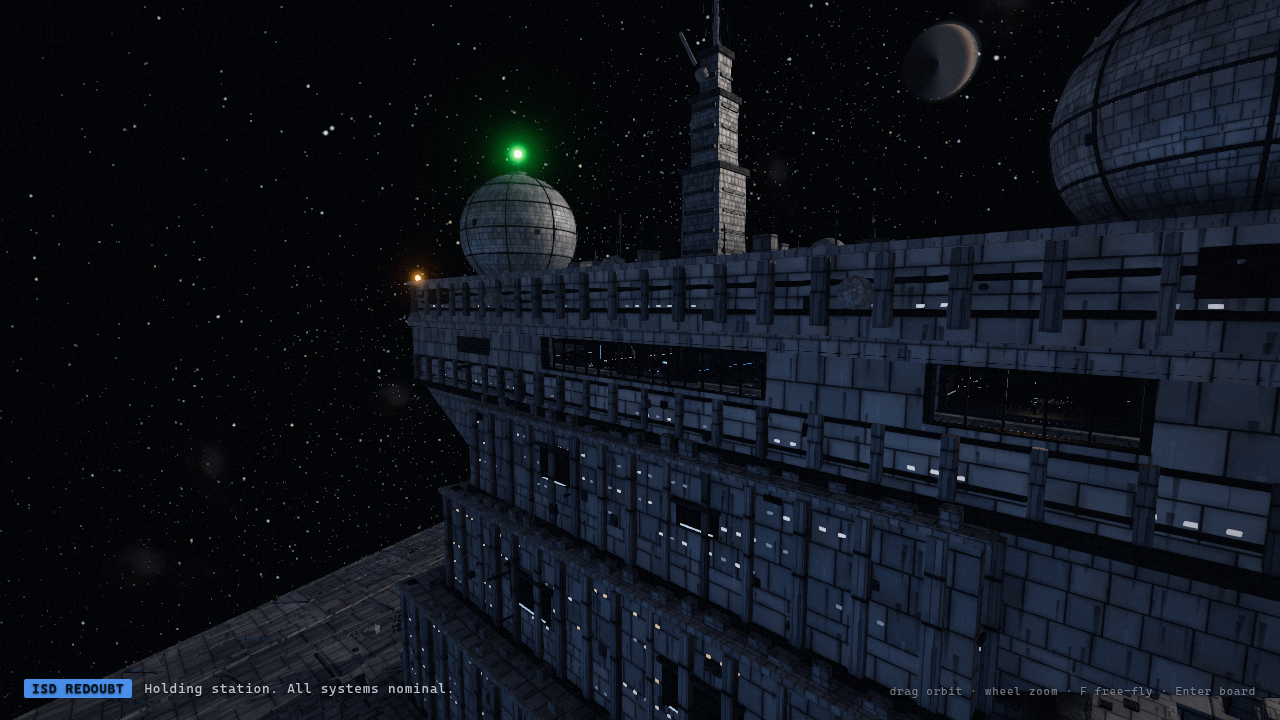
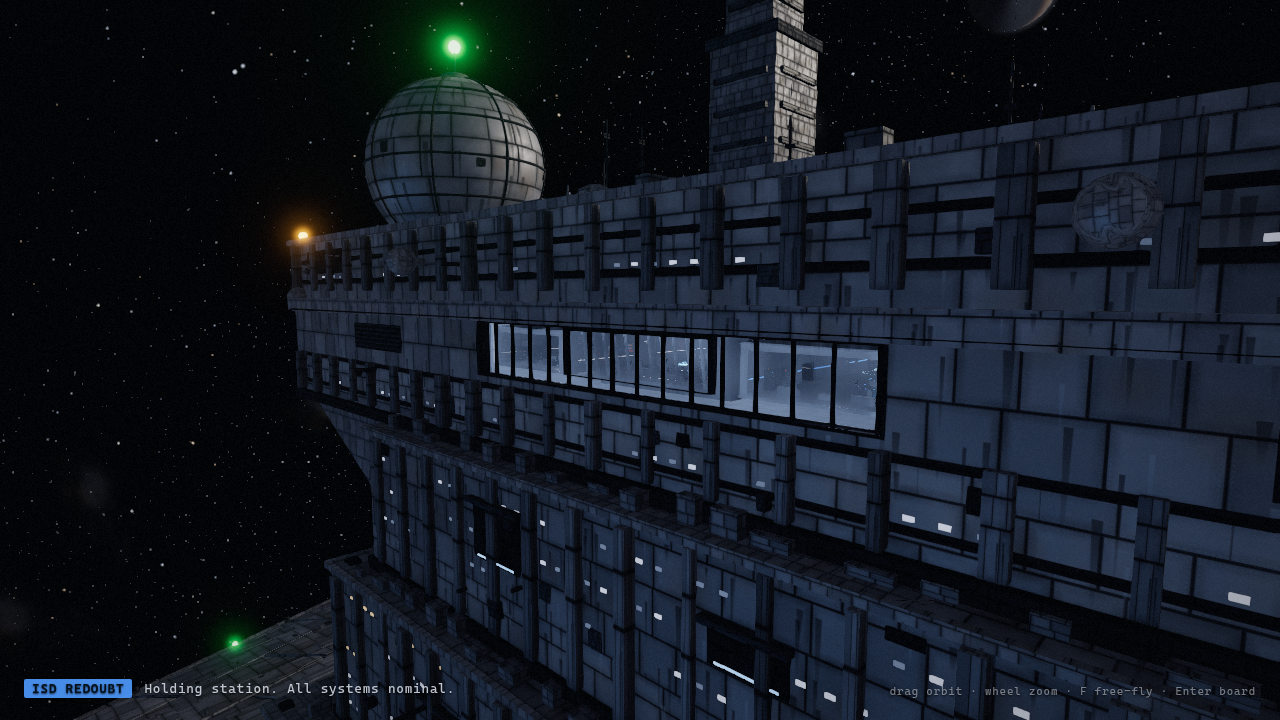
Exterior review fixes: base hull casts the sun's shadows, engine throats no longer clip (glow power 0.55), globe plating scale, lit-window wash behind the glazing, deep-red port lights, TIE engine halos shrunk to fighter scale, 58° exterior lens and 45 m orbit minimum; exterior review report

diff --git a/src/exterior/tower.js b/src/exterior/tower.js
@@ -22,6 +22,7 @@ function boxMM(kit, mat, min, max, opts) {
 
 export function buildTower(kit, tiers, rand) {
   const walls = [];
+  const extras = []; // standalone meshes for the caller to add to the exterior group
   // ---- neck blocks
   TOWER.neck.forEach((n, i) => {
     const c = _c.copy(IMP.hullMid).lerp(IMP.hullLight, 0.1 + i * 0.04).clone();
@@ -102,8 +103,15 @@ export function buildTower(kit, tiers, rand) {
       const x = w.x0 + pitch * k;
       kit.boxMM("hullDark", [x - 0.13, sillTop, FACE], [x + 0.13, yTopBand, FACE + 0.55], { color: IMP.hullShadow });
     }
-    // no backdrop behind the panes: the lit bridge / tower rooms render behind the glazing when the camera is
-    // within peek range (RoomManager.setExteriorPeek); beyond that range the slot reads as dark glass
+    // no opaque backdrop behind the panes: the lit bridge / tower rooms render behind the glazing when the camera
+    // is within peek range (RoomManager.setExteriorPeek). A faint additive wash makes the slot read as an
+    // occupied, lit bridge from any distance without hiding the interior when close.
+    const wash = new THREE.PlaneGeometry(w.x1 - w.x0, yTopBand - sillTop);
+    wash.rotateY(Math.PI);
+    const washMesh = new THREE.Mesh(wash, new THREE.MeshBasicMaterial({ color: new THREE.Color(0.16, 0.22, 0.34), transparent: true, opacity: 1, blending: THREE.AdditiveBlending, depthWrite: false, fog: false }));
+    washMesh.position.set((w.x0 + w.x1) / 2, (sillTop + yTopBand) / 2, WALL_IN - 0.25);
+    washMesh.renderOrder = 2;
+    extras.push(washMesh);
   }
   // shuttered starboard slot (mirrors the observation gallery on the port side)
   {
@@ -184,7 +192,7 @@ export function buildTower(kit, tiers, rand) {
   for (const side of [-1, 1]) {
     const g = TOWER.globes;
     const cx = side * g.x;
-    kit.add("hull", new THREE.SphereGeometry(g.r, 40, 26), { pos: [cx, g.y, g.z], color: IMP.hullLight, uv: "scale", uvScale: [12, 6] });
+    kit.add("hull", new THREE.SphereGeometry(g.r, 40, 26), { pos: [cx, g.y, g.z], color: IMP.hullLight, uv: "scale", uvScale: [3, 1.5] });
     // collar where the globe meets the roof
     const rc = Math.sqrt(Math.max(1, g.r * g.r - (g.y - B.y1) * (g.y - B.y1)));
     kit.add("hullDark", new THREE.TorusGeometry(rc + 0.6, 1.4, 8, 40), { pos: [cx, B.y1 + 0.6, g.z], rot: [Math.PI / 2, 0, 0], color: IMP.hullDark, uv: "scale", uvScale: [20, 1] });
@@ -263,5 +271,5 @@ export function buildTower(kit, tiers, rand) {
       else tiers.near.place("radiator", { pos: [x, B.y1, z], scale: [3 + rand() * 3, 2, 3], color: IMP.hullShadow });
     }
   }
-  return { walls };
+  return { walls, extras };
 }

diff --git a/src/fighters/index.js b/src/fighters/index.js
@@ -159,15 +159,16 @@ export function createFighters({ scene, materials, audio = null }) {
     obj.visible = false;
     const glows = [];
     for (const s of [-1, 1]) {
-      const sp = new THREE.Sprite(new THREE.SpriteMaterial({ map: tex, color: new THREE.Color(2.6, 0.75, 0.35), transparent: true, blending: THREE.AdditiveBlending, depthWrite: false }));
+      const sp = new THREE.Sprite(new THREE.SpriteMaterial({ map: tex, color: new THREE.Color(1.4, 1.1, 0.7), transparent: true, blending: THREE.AdditiveBlending, depthWrite: false }));
       sp.position.set(s * 0.48, -0.32, 3.05);
-      sp.scale.set(1.5, 1.5, 1);
+      sp.scale.set(1.1, 1.1, 1);
       obj.add(sp);
       glows.push(sp);
     }
-    const halo = new THREE.Sprite(new THREE.SpriteMaterial({ map: tex, color: new THREE.Color(1.6, 0.5, 0.25), transparent: true, blending: THREE.AdditiveBlending, depthWrite: false, opacity: 0.55 }));
+    // faint engine halo, never larger than the fighter itself
+    const halo = new THREE.Sprite(new THREE.SpriteMaterial({ map: tex, color: new THREE.Color(0.9, 0.7, 0.45), transparent: true, blending: THREE.AdditiveBlending, depthWrite: false, opacity: 0.3 }));
     halo.position.set(0, -0.3, 3.6);
-    halo.scale.set(5, 5, 1);
+    halo.scale.set(2.2, 2.2, 1);
     obj.add(halo);
     glows.push(halo);
     group.add(obj);
@@ -277,7 +278,7 @@ export function createFighters({ scene, materials, audio = null }) {
             p.glows[1].scale.set(0.9 + 1.1 * k, 0.9 + 1.1 * k, 1);
             p.glows[0].material.opacity = Math.min(1, 0.15 + k);
             p.glows[1].material.opacity = Math.min(1, 0.15 + k);
-            p.glows[2].scale.set(2 + 7 * k, 2 + 7 * k, 1);
+            p.glows[2].scale.set(1.4 + 1.6 * k, 1.4 + 1.6 * k, 1);
             p.glows[2].material.opacity = 0.6 * k;
           }
         }

diff --git a/src/exterior/common.js b/src/exterior/common.js
@@ -95,7 +95,7 @@ export function syncSharedMaterials(M) {
 /** Engine throat: radial/longitudinal gradient (uv.y = 0 deep core, 1 at the lip) with a soft flicker. */
 export function makeEngineGlowMaterial() {
   return new THREE.ShaderMaterial({
-    uniforms: { time: { value: 0 }, core: { value: new THREE.Color("#eaf4ff") }, rim: { value: new THREE.Color("#2c6cff") }, power: { value: 1.0 } },
+    uniforms: { time: { value: 0 }, core: { value: new THREE.Color("#c9dcff") }, rim: { value: new THREE.Color("#2c6cff") }, power: { value: 0.55 } },
     vertexShader: /* glsl */ `
       varying vec2 vUv;
       void main() {
@@ -445,7 +445,8 @@ export class Tier {
   build(parent, lod, reach) {
     let tris = 0;
     for (let i = 0; i < this.chunks; i++) {
-      const meshes = this.kits[i].build(this.groups[i], { castShadow: false, receiveShadow: true });
+      // the base tier casts (tower and terraces throw real shadows across the hull); detail tiers only receive
+      const meshes = this.kits[i].build(this.groups[i], { castShadow: i === 0, receiveShadow: true });
       if (!meshes.length) continue;
       parent.add(this.groups[i]);
       lod.add(this.groups[i], reach, this.name);

diff --git a/src/systems/transitions.js b/src/systems/transitions.js
@@ -34,6 +34,7 @@ export class Modes {
       this.rig.mode = "off";
       this.camera.near = 0.05;
       this.camera.far = 6000;
+      this.camera.fov = 70;
       this.scene.fog = this.fogInterior;
       this.rooms.group.visible = true;
       this.rooms.setExteriorPeek(false);
@@ -44,6 +45,7 @@ export class Modes {
       this.rig.enabled = true;
       this.camera.near = 1;
       this.camera.far = 40000;
+      this.camera.fov = 58; // a longer lens outside conveys the ship's size
       this.scene.fog = null;
       // nobody is inside now: drop the current room so no interior cluster renders inside the closed hull;
       // the glazed tower rooms alone stay renderable (peek) so the bridge glows behind its windows

diff --git a/src/exterior/lights.js b/src/exterior/lights.js
@@ -14,7 +14,7 @@ const _p = new THREE.Vector3();
 export function buildRunLights(group, M, rand) {
   const items = [];
   const add = (x, y, z, color, rate, size = 1.6, phase = rand() * Math.PI * 2) => items.push({ x, y, z, color, rate, phase, size });
-  const RED = 0xff2a1e;
+  const RED = 0xff0a08; // deep red so it never reads as amber after bloom + tone mapping
   const GREEN = 0x27ff6a;
   const WHITE = 0xffffff;
   const AMBER = 0xffb040;

diff --git a/src/exterior/hull.js b/src/exterior/hull.js
@@ -49,7 +49,8 @@ export function buildExterior(scene, materials) {
   buildTrenchWalls(kit);
   buildSternFace(kit);
   buildCity(kit, tiers, rand);
-  buildTower(kit, tiers, rand);
+  const tower = buildTower(kit, tiers, rand);
+  for (const m of tower.extras || []) group.add(m);
   buildEngines(kit, tiers, rand);
   buildWeapons(kit, tiers, rand);
   const { fields } = buildBelly(kit, tiers, rand, M);

diff --git a/src/systems/camera.js b/src/systems/camera.js
@@ -2,7 +2,7 @@
 // smooth damping and a scripted flight helper used by the boarding transition.
 import * as THREE from "three";
 
-let MIN_DIST = 120;
+let MIN_DIST = 45;
 const MAX_DIST = 6000;
 
 export class CameraRig {

diff --git a/reviews/REVIEW_INTERIOR_B.md b/reviews/REVIEW_INTERIOR_B.md
@@ -153,7 +153,119 @@ panel (`int_-3_-10_250.5_0_0.png`); it is recognisably a lift car but very dim a
 
 | Screenshot | What is wrong | Why it matters | Severity | Suggested fix |
 |---|---|---|---|---|
-| `int_-3_-10_250.5_0_0.png` | Cab back wall is three flat panels and a dark rail; no ceiling light, no floor grate, no door-side indicator | Riders spend 2–3 s per ride staring at this wall | **minor** | Add a recessed ceiling light box, a floor grate, a deck-position display over the door and a thin emissive kick strip at the base |
+| `int_-3_-10_250.5_0_0.png` | Cab back wall is flat panels and a dark band; the only fixtures are one indicator matrix, one stencil block, one hazard decal and one control panel — and it is pixel-for-pixel the same wall as the crew cab (`int_-3_6_-110.5_180_0.png`) | Riders spend the whole ride staring at this wall, and every cab on the ship is the same cab | **minor** | Add a deck-position display, a floor grate, a thin emissive kick strip, and seed the stencil/panel placement per lobby so cabs differ |
 | `room_eng_lobby.png`, `int_0_-10_254.5_0_0.png` | Dust particles are large white dots that read as snowfall; the waist light band blooms into a 25 px soft bar | Undermines the crisp lobby detail | **polish** | Halve the particle size/alpha in small rooms; reduce band emissive |
 | `room_eng_lobby.png` | A blue planet-like decal floats on the left wall with no frame | Reads as a placeholder | **polish** | Frame it as a screen or replace with a deck plan plate |
+
+### 2.7 Crew Corridors (`crew_corridor` −62..62 × −130..−122 and `crew_corridor_fwd` −62..62 × −178..−170, floor 6)
+
+Views: `crew_corridor.png` (381 calls, 928k tris, 12 lights), `room_crew_corridor_fwd.png` (348 / 920k / 12),
+`int_-18.5_6_-125.5_0_0.png` (368 / 912k / 12, facing the mess door), `int_-12.5_6_-173.5_0_0.png`
+(294 / 869k / 12, facing the detention door).
+
+The two 124 m crew corridors are the same module as the engineering spine but denser: waist light bands,
+indicator-matrix cabinets, waveform screens, Aurebesh plates, door numerals, hazard-striped door thresholds,
+angled door headers with a status lamp, and the forward corridor is deliberately dimmer with a hazard-striped
+door and a bank of computer cabinets (`room_crew_corridor_fwd.png`). Door fronts are the best moments: the mess
+door (`int_-18.5_6_-125.5_0_0.png`) has an angled lintel, blue status lamp, keypad, hazard threshold and side
+plates; the detention door (`int_-12.5_6_-173.5_0_0.png`) is correctly menacing with red hazard-framed
+stencils, an orange lamp and a red keypad. Two things hold the corridors back. First, monotony and exposure:
+in every axial view the strips converge into a pure-white vanishing point and the black floor mirrors it as a
+white streak (`crew_corridor.png`, `room_crew_corridor_fwd.png`); no bulkhead, ceiling drop or width change
+marks the four room doors or the connector mouth. Second, the deck texture's scuff lines catch the strips and
+draw a sharp white "cracked glass" web on the floor that repeats with the tile (foreground of
+`crew_corridor.png` and `room_crew_corridor_fwd.png`). Both corridor views are also well over the 250-call
+interior budget of `PLAN.md` §9 because all three corridor rooms render together.
+
+| Screenshot | What is wrong | Why it matters | Severity | Suggested fix |
+|---|---|---|---|---|
+| `crew_corridor.png`, `room_crew_corridor_fwd.png` | 60 m of identical wall modules in each direction ending in a blown-white vanishing point; nothing marks where quarters / mess / lounge / medbay are | The brief singles out corridor monotony; from the connector you cannot tell which door is which room | **major** | Insert a portal frame with a 0.4 m ceiling drop every ~20 m and give each room door a distinct surround: name plate, a coloured accent strip per room (amber mess, green medbay, red detention), a wider hazard threshold |
+| `crew_corridor.png`, `room_crew_connector.png` | Deck scuff lines (14 random bright streaks baked into `deckBlack`) render as sharp white web lines under the strips and repeat every tile | Reads as cracked glass or a z-fighting artefact rather than scuffed durasteel | **major** | Lower the scuff albedo lift (0.24 → ~0.18) and count, or randomise scuffs per plate so the pattern does not tile; raise strip-reflection roughness |
+| `crew_corridor.png`, `int_-18.5_6_-125.5_0_0.png` | Ceiling strips bloom into 30–60 px bars and the top of every frontal view is a solid white smear | Kills the thin-white-line Imperial look and hides the ceiling | **major** | Reduce strip emissive (or bloom threshold) by ~40 %; break the continuous centre strip into segments |
+| `int_-18.5_6_-125.5_0_0.png` | The deck stencil beside the mess door reads "07" — the same number the engineering and tower lobbies show; it is the hard-coded `DECAL.DECK_A` | Deck numbering is a wayfinding cue and is wrong on two of three decks | **minor** | Generate the deck decal from `deckIndex` (one canvas per deck) |
+| `int_-12.5_6_-173.5_0_0.png` | Left of the detention door one wall panel is a cream/beige tint among grey plates; the right waist band stops dead at a panel edge (x ≈ 890 px) with no end cap | Colour outlier and an unfinished band edge in an otherwise well-composed door front | **minor** | Clamp the panel tint palette to greys; add an end cap or continue the band to the frame |
+| `int_-18.5_6_-125.5_0_0.png` | A blue triangle logo screen sits next to the mess door | Triangle-on-blue reads as a Rebel-style insignia, off-language for an Imperial deck | **polish** | Replace with the cog emblem or a deck plan |
+| `crew_corridor.png` | 381 draw calls (fwd: 348) in a corridor view | Over the 250-call interior budget of `PLAN.md` §9 by 50 % | **minor** | Merge the per-module cabinets/screens into one geometry per side, or cull the far corridor when the connector doors are closed |
+
+### 2.8 Crew Connector (`crew_connector`, −3..3 × −170..−130, floor 6)
+
+Views: `room_crew_connector.png` (344 calls, 909k tris, 12 lights), `int_0_6_-131.5_0_0.png` (357 / 911k / 12).
+
+The 40 m connector is the best-dressed corridor of the review: a bank of computer cabinets with blue schematic
+screens and indicator matrices on one side, an overhead pipe run at the mouth, grated floor strips both sides,
+a floor direction arrow with an Aurebesh label, a light-strip portal frame, a stack of cargo crates and a
+hazard placard leaning against the wall (`room_crew_connector.png`, `int_0_6_-131.5_0_0.png`). It has purpose
+(a service link) and identity. The right-hand wall, however, is two 6 m blank plates for the first 10 m, the
+upper walls are bare, and the far end is once again a white void.
+
+| Screenshot | What is wrong | Why it matters | Severity | Suggested fix |
+|---|---|---|---|---|
+| `room_crew_connector.png`, `int_0_6_-131.5_0_0.png` | Far end (z −170) is a blown-white rectangle; the corridor appears to open into nothing | Same exposure problem as the corridors; here it is framed by the portal so it is the focal point | **major** | Put a closed door or a bulkhead with a hazard band at the corridor_fwd junction, and dim the strips over the last 8 m |
+| `int_0_6_-131.5_0_0.png` | Right wall x 3, z −132..−142 is two large flat plates with one stencil and a lamp | The left side has cabinets and detail; the right is empty for 10 m | **minor** | Mirror a shorter cabinet run or add a pipe manifold and a wall-mounted fire-suppression cabinet |
+| `room_crew_connector.png` | Upper third of both walls (above the cabinets, y 8.5–10.5) is bare plate for the whole 40 m | The eye is pulled up by the bright ceiling strips onto empty panels | **polish** | Run the pipe bundle from the mouth along the full length, or add a cable tray |
+
+### 2.9 Crew Turbolift Lobby & cab (`crew_lobby`, −6..6 × −122..−112, floor 6; cabs z −112..−109)
+
+Views: `room_crew_lobby.png` (193 calls, 434k tris, 5 lights — the named view faces the corridor exit door, not
+the lifts), `int_0_6_-114_180_0.png` (222 / 459k / 5, the pier between the cabs), `int_-3_6_-114.5_180_0.png`
+(217 / 459k / 5, west cab doors open), `int_-3_6_-110.5_180_0.png` (281 / 635k / 5, cab back wall),
+`int_-3_6_-110.5_0_40.png` (320 / 626k / 5, cab ceiling and door head from inside), `int_-3_6_-109.8_0_0.png`
+(323 / 606k / 5, lobby seen from the back of the cab).
+
+The lobby itself is good: framed cog emblem, waveform screen, Aurebesh plates, a hazard-edged double exit door
+with amber lamps and a status lamp, hazard thresholds, a cog floor stencil and a computer bank
+(`room_crew_lobby.png`, `int_-3_6_-109.8_0_0.png`); the lift pier carries call bars (white/amber), a matrix and a
+warning triangle (`int_0_6_-114_180_0.png`). The cabs are where the turbolift illusion fails. With the doors open
+the car is a black cave with a lit back wall floating in it — the side walls, floor and ceiling receive no light
+(`int_-3_6_-114.5_180_0.png`). From inside, the wall above the door is a featureless black void and the ceiling
+is one blown-white slab (`int_-3_6_-110.5_0_40.png`); the back wall is the same flat panel set as the engineering
+cab (`int_-3_6_-110.5_180_0.png`). There is no deck display, no hand rail with depth, no floor grate.
+
+| Screenshot | What is wrong | Why it matters | Severity | Suggested fix |
+|---|---|---|---|---|
+| `int_-3_6_-114.5_180_0.png` | Open cab reads as a black cavity: side walls, floor and ceiling are unlit; only the back wall is visible | "Cab interiors must read as turbolifts" — this reads as a hole in the wall | **major** | Give the cab its own light (a PointLight or emissive ceiling diffuser with real intensity plus emissive kick/rail strips on the side walls); light the floor with a grate over a dim emissive plane |
+| `int_-3_6_-110.5_0_40.png` | From inside, everything above the door head is black; the cab ceiling is a single clipped white rectangle | The rider looks up into a void during the ride | **major** | Add a front wall panel above the door with a deck-position display and a cove; replace the slab with a framed diffuser at lower intensity |
+| `int_-3_6_-110.5_180_0.png`, `int_-3_-10_250.5_0_0.png` | Cab back walls of the crew and engineering lobbies are identical (same stencil block, matrix, hazard decal, panel) | Copy-paste between decks that should feel like different parts of the ship | **minor** | Seed the cab dressing per lobby; vary the stencil text and control-panel side |
+| `room_crew_lobby.png`, `int_0_6_-114_180_0.png` | Waist band and ceiling strip are blown to solid white bars; particles read as snow | Same exposure problem as the engineering lobby | **polish** | Reduce band emissive and particle size in rooms under 12 m |
+| `room_crew_lobby.png` | The named view for the lobby faces the exit door; the lifts are behind the camera | The room's identity (turbolifts) is not in its own reference shot | **polish** | Turn the spawn/named view to yaw 180 so the two cab doors and the pier are the first thing seen |
+
+### 2.10 Crew Quarters (`crew_quarters`, −62..−36 × −170..−130, floor 6)
+
+Views: `crew_quarters.png` (182 calls, 682k tris, 10 lights), `int_-46_6_-142_90_0.png` (165 / 689k / 10).
+
+The barracks has a clear identity: two ranks of triple bunk stacks with ladders, locker piers with vertical
+amber light strips, bay-number stencils on the posts, white floor lane lines with bay numbers, a warm-grey deck
+and a chevron of diagonal ceiling strips that gives the room a different ceiling from everything else
+(`crew_quarters.png`). Scale is right (three bunks in ~2.8 m, ladders, 2.5 m lockers). What it lacks is life and
+variation: every stack is the same stack with the same pale mattress and the same green blanket end, there is
+not a single personal item, kit bag, open locker or towel in 40 m of bunks (`int_-46_6_-142_90_0.png`), the
+ceiling over the bays is unlit black, and a pale untextured block sits at the aisle edge.
+
+| Screenshot | What is wrong | Why it matters | Severity | Suggested fix |
+|---|---|---|---|---|
+| `crew_quarters.png`, `int_-46_6_-142_90_0.png` | ~20 identical bunk stacks, identical bedding, ladders always on the same side, no kit anywhere | Copy-paste repetition is the whole room; it reads as a furniture catalogue, not a place 200 people sleep | **major** | Seed per stack: blanket colour (grey/green/black), pillow present or not, ladder side, one in four bunks with a kit bag or folded uniform, a few lockers ajar with an amber interior |
+| `int_-46_6_-142_90_0.png` | Pale flat block at the right edge (aisle side, ~1.2 m tall) with no texture, seams or edge detail | Reads as a placeholder primitive against textured bunks | **minor** | Give it a footlocker model (panel texture, hazard corner, latch) or remove it |
+| `int_-46_6_-142_90_0.png` | Ceiling above the bunk bays is unlit black; only the strips exist | The room reads as open to a void above 3 m | **minor** | Add a low-intensity ambient/hemisphere fill or dim emissive ceiling panels between the strips |
+| `crew_quarters.png` | Diagonal strips converge into a blown patch at the aisle centre | Same exposure problem | **polish** | Lower strip emissive |
+
+### 2.11 Mess Hall (`mess`, −32..−4 × −170..−130, floor 6)
+
+Views: `mess.png` (172 calls, 515k tris, 10 lights), `int_-20_6_-136_0_-12.png` (171 / 515k / 10),
+`int_-18_6_-156_0_0.png` (169 / 513k / 10, galley counter).
+
+Purpose and circulation are immediate: four table rows with benches lead to a serving counter with an amber kick
+strip, two numbered dispensers with screens, a hot line behind and a hanging Aurebesh menu board with coloured
+bars — the best single prop group on the crew deck (`int_-18_6_-156_0_0.png`). Trays and cups on the tables,
+wall screens and upper cabinets fill the walls (`mess.png`). The intended warm-amber mood is only half there:
+the pendant lamps glow amber but the light that actually falls on the room is the white ceiling strips, so the
+table tops are burnt to flat white and the room reads as a bright canteen rather than a warm one
+(`mess.png`, `int_-20_6_-136_0_-12.png`). The table tops also carry the floor-tile texture, so they look like
+tiled counters.
+
+| Screenshot | What is wrong | Why it matters | Severity | Suggested fix |
+|---|---|---|---|---|
+| `mess.png`, `int_-20_6_-136_0_-12.png` | Table tops are over-exposed near-white slabs with a visible tile grid; the foreground tables are pure white | The brief says warm amber; the room is dominated by clipped white | **major** | Drop the white strip intensity in this room by half and let the amber pendants carry the light (give them a real warm PointLight each, low range); use a matte grey table material without the deck tile texture |
+| `mess.png` | Ceiling strips converge and bloom into a fat white bar down the centre | Same exposure problem, worst here because the ceiling is warm-tinted and the bar is white | **minor** | Segment the strips or tint them warm in this room |
+| `int_-18_6_-156_0_0.png` | The galley behind the counter is one grey cabinet wall; the counter front is the same black indicator panel repeated four times | The focal wall of the room is flat and repetitive | **minor** | Add a hood, steam/vapour emitter over the hot line, hanging utensils or dispensers on the back wall; vary two of the four counter panels (hatch, drawer) |
+| `mess.png`, `int_-20_6_-136_0_-12.png` | The same red circular screen graphic and the same waveform screen appear on both side walls | Copy-paste at eye level | **polish** | Rotate through more screen indices per wall |
 

diff --git a/reviews/REVIEW_EXTERIOR.md b/reviews/REVIEW_EXTERIOR.md
@@ -17,6 +17,12 @@ Note for whoever reproduces these: `--sim=N` in `tools/view.mjs` is applied **pe
 third view is at simulation time ≈ 3N, not N. The `sim40/` and `sim60/` folders are labelled by the flag, not by the
 resulting clock. The probe log (`beam/_stats_beam.txt`) records the actual clock for the beam shots.
 
+State of the tree: the main pass was shot 14:53–16:45 UTC from the live Vite server while sibling workstreams were
+editing the working tree (uncommitted at the time of writing: `HemisphereLight` 0.35 → 0.45 with a lighter ground colour,
+`glass` opacity 0.08 → 0.045, lower interior emissive levels; committed at 17:02 UTC as `4d1d6b7d`: tower glazing
+backdrop removed, interior never rendered inside the closed hull from outside). The exterior findings below do not
+depend on those edits except #2, which was re-shot after `4d1d6b7d` (`recheck/`) and updated accordingly.
+
 ---
 
 ## 1. Verdict
@@ -38,7 +44,7 @@ attentive viewer) · **polish**.
 | # | View / screenshot | What is wrong | Why it matters | Severity | Suggested fix |
 |---|---|---|---|---|---|
 | 1 | `ext_200_30_720_0_0_520.png`, `crops_stern_bell.png`, `ext_stern.png`, `fighters/tie_patrol_t102.png`, `fighters/tie_patrol_t104.png` | Engine throats are pure white discs with a blue rim and a large bloom halo; no nozzle depth, no rib or ring detail is visible although `engines.js` builds ribs, rings, collars and a depth-gradient throat. The throat cone is `0.93·r` wide (nearly the whole aperture) at `engineGlow` emissive 3.0, so the entire opening clips to white after ACES + bloom (exterior bloom threshold 1.0, strength 0.4). | The engines are the hero element of every aft view; the built geometry is wasted. From aft the ship looks like it has three flashlights taped to it. | **major** | Material/lighting: drop `engineGlow` emissive to ≈1.2–1.5 and let only the core disc exceed the bloom threshold; make the throat gradient dark at the lip (linear 0.2) so the `hullDark` inner wall reads; narrow the throat cone to ≈0.8·r; use a smooth heat-stained dark material for the bell exterior instead of the plated `hull` texture (`uvScale [6,1]` currently tiles bricks around a cylinder). |
-| 2 | `ext_0_214_120_0_214_172.png` (head-on, spec 52 m / effective ≈110 m), `crops_glazing_headon.png`, `ext_close.png`, `ext_0_235_-250_0_215_175.png` | Bridge glazing is a solid black bar. The stats for these views report `rooms bridge\|tactical\|nav_station\|observation` resident and 15–16 lights, i.e. the exterior-peek path is active, yet nothing lit is visible through the 0.08-opacity glass at any range. From the front (`ext_0_235…`) the slot is just black. | The bridge windows are the single most iconic ISD feature and the boarding target of the demo. A black slot makes the tower look derelict, and the peek system's cost (≈1.2 M tris in these views vs 0.55–0.65 M elsewhere) buys nothing visible. | **major** | Verify what the panes actually look onto (interior wall vs. room volume) — at ≈110 m the rooms should be obvious. Regardless, add a lit backdrop: an emissive interior plane (warm ≈0.35 linear) with console strips just behind the glazing, and a thin emissive window strip so the bridge reads lit from 1 km. Glass roughness 0.2 → 0.05 with a faint env reflection so the pane itself is visible. |
+| 2 | `ext_0_214_120_0_214_172.png` (head-on, spec 52 m / effective ≈110 m), `crops_glazing_headon.png`, `ext_close.png`, `ext_0_235_-250_0_215_175.png`; re-shot after commit `4d1d6b7d`: `recheck/ext_0_214_120_0_214_172.png`, `recheck/crops_glazing_headon_recheck.png`, `recheck/ext_close.png`, `recheck/ext_0_235_-250_0_215_175.png` | Bridge glazing reads as a black bar. In the first pass it was solid black even though the stats show `rooms bridge\|tactical\|nav_station\|observation` resident with 15–16 lights (peek path active). After the technical-review commit that removed the dark backdrop landed, the re-shoot at ≈110 m shows a handful of console LEDs behind the pane (`recheck/crops_glazing_headon_recheck.png`) but the slot is still ≈95 % black; from 425 m (`recheck/ext_0_235…`) it is indistinguishable from the first pass. | The bridge windows are the single most iconic ISD feature and the boarding target of the demo. An unlit slot makes the tower look derelict, and the peek system's cost (≈1.2 M tris in these views vs 0.55–0.65 M elsewhere) buys almost nothing visible. | **major** | The rooms are there but far too dark relative to the sun-lit exterior exposure. Add a lit interior wash visible from outside: a warm emissive ceiling/backwall plane (≈0.35 linear) just inside the panes plus brighter console strips facing the glass; and a thin emissive window strip (below bloom threshold) so the bridge reads lit from 400 m–1 km where the peek rooms are not resident. Glass roughness 0.18 → 0.05 with a faint env reflection so the pane itself is visible. |
 | 3 | `ext_close.png`, `crops_tower_lights.png`, `ext_tower.png`, `ext_0_214_120_0_214_172.png` | The tower is a medieval keep: globes are brick-tiled spheres with a visible meridian seam, the mast is a stack of bricks, the bridge block and terraces have crenellated parapets, and the same rectangular plating tile is on every surface regardless of curvature. | Kills the "machined Imperial" read at exactly the distance where players approach to board. | **major** | Materials/geometry: globes → smooth `hullDark` with 3–4 latitude panel bands and a small dish; mast → smooth box + lattice truss; drop parapet block height by ~70 % and replace with flat greeble strips; add a second, finer plating material for small parts so the big-plate texture stays on the hull only. |
 | 4 | `ext_mid.png`, `ext_0_235_-250_0_215_175.png`, `ext_-160_70_60_0_200_190.png`, `ext_-560_10_-200_-450_0_-200.png` | The bridge neck is a stepped pedestal of three boxes (half-widths 95/80/70 m, depths 110/90/80 m, `layout.js TOWER.neck`) rather than the slim, continuously tapered slab of the reference design. In silhouette it is a ziggurat with a T on top. | Silhouette is the first thing read at 1–3 km; the neck proportion is what separates an ISD from a generic "wedge with tower". | **major** | Geometry: replace the three boxes with one tapered prism (e.g. half-width 75 → 65 m, depth 45 → 35 m, y 90 → 195) plus a thin base plinth; hang a few pylons/greebles on its sides so it is not a blank slab. |
 | 5 | `ext_-300_120_450_-200_60_350.png`, `ext_-120_80_-400_-60_30_-300.png`, `ext_-140_95_-100_-74_66_-150.png`, `ext_250_180_600_0_200_200.png`, `ext_tower.png` | City blocks are uniform "sugar cubes": same height, same tile texture, same white window-dash strip on every face, arranged in straight rows. Terraces read as a Lego baseplate / castle wall. | This is the surface that fills most medium shots; repetition is the most obvious "procedural" tell. | **major** | Geometry: 3 block families (low wide slabs, tall narrow towers, long barracks), heights varied ×0.6–1.8, 10–15 % rotated 90°, dark recessed channels between blocks, and a per-block greeble kit (pipes, hatches, vents, tanks) instead of a single window strip. Vary the window strip: some faces none, some two rows. |
@@ -155,6 +161,9 @@ the specified camera→target distance (see the ≥120 m easing caveat at the to
 | `beam/belly_starboard_sim0.png` | probe, clock 0.6, no fighters out | 254 | 629 k | — | — | 2698 | — |
 | `beam/belly_starboard_recovery_t123.png` | probe, clock 123.8, TIE #0 ascending | 292 | 649 k | — | — | 3546 | — |
 | `beam/beam_close_t124.png` | probe, clock 125, ≈65 m from the beam | 275 | 636 k | — | — | 2124 | — |
+| `recheck/ext_0_214_120_0_214_172.png` | re-shot after `4d1d6b7d`, 52 m spec | 509 | 1202 k | 15 | 431 | 3401 | bridge, tactical, nav_station, observation |
+| `recheck/ext_close.png` | re-shot after `4d1d6b7d`, named | 515 | 1207 k | 15 | 431 | 3253 | bridge, tactical, nav_station, observation |
+| `recheck/ext_0_235_-250_0_215_175.png` | re-shot after `4d1d6b7d`, 425 m | 217 | 605 k | 2 | 262 | 2181 | — |
 
 `fighters/fighter_launching_t42.png` is a second framing of the same t≈42 launch (stats not captured separately).
 `crops_*.png` are crops of: `ext_0_235_-250_0_215_175.png` (tower lights), `ext_0_214_120_0_214_172.png` (glazing),
@@ -176,5 +185,9 @@ the specified camera→target distance (see the ≥120 m easing caveat at the to
   consistent with the oversized balloon in #14.
 - Tower neck: three stacked boxes, half-widths 95/80/70 m, depths 110/90/80 m (`src/core/layout.js TOWER.neck`) — #4.
 - Exterior peek: rooms are resident when the camera is within 360 m of `GLAZING_CENTER (0,213,170)` (`src/main.js`),
-  which the 52 m head-on shot satisfies — the black glazing in #2 is therefore a rendering/lighting gap, not a culling one.
-- Camera FOV 70° (`src/main.js`), orbit radius clamped to 120–6000 m (`src/systems/camera.js`) — #9.
+  which the head-on shot satisfies — the dark glazing in #2 is therefore a lighting/exposure gap, not a culling one.
+  Glass at HEAD `4d1d6b7d`: colour `0x6d8a96`, roughness 0.2, opacity 0.08 (`src/materials.js`); the uncommitted working
+  tree lowers it to opacity 0.045 — either way the pane is not what hides the interior.
+- Camera FOV 70° (`src/main.js`), orbit radius clamped to 120–6000 m with per-frame easing (`src/systems/camera.js`) — #9.
+- `HemisphereLight` is 0.35 at HEAD and 0.45 in the uncommitted working tree (`src/main.js`); the #6 fix suggestion to
+  lower it applies to whichever value lands, the point being sun/shadow contrast, not absolute fill.
